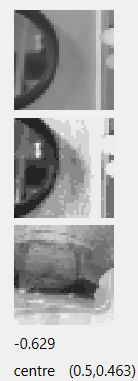
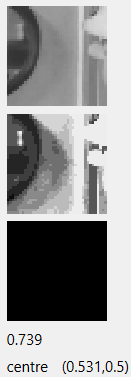
re-run

diff --git a/win006.cpp b/win006.cpp
@@ -297,21 +297,6 @@ Win006::Win006(const std::string& configA,
 Win006::~Win006()
 {
 	terminate = true;
-	// dump slice representations
- 	if (_model.size())
-	{
-		try
-		{
-			std::ofstream out(_model + ".rep", std::ios::binary);
-			sliceRepresentationUMapsPersistent(*_slicesRepresentation, out); 
-			out.close();
-			LOG "actor\tdump\tfile name:" << _model + ".rep" UNLOG
-		}
-		catch (const std::exception&)
-		{
-			LOG "actor\terror: failed to write slice-representations file" <<_model + ".rep" UNLOG
-		}			
-	}
 	if (_system)
 	{
 		_active->terminate = true;
@@ -354,6 +339,18 @@ Win006::~Win006()
 			ppio.filename = activeA.name+".ac";
 			activeA.logging = true;
 			activeA.dump(ppio);		
+			// dump slice representations
+			try
+			{
+				std::ofstream out(_model + ".rep", std::ios::binary);
+				sliceRepresentationUMapsPersistent(*_slicesRepresentation, out); 
+				out.close();
+				LOG "actor\tdump\tfile name:" << _model + ".rep" UNLOG
+			}
+			catch (const std::exception&)
+			{
+				LOG "actor\terror: failed to write slice-representations file" <<_model + ".rep" UNLOG
+			}	
 		}			
 	}
     delete _ui;
@@ -449,7 +446,7 @@ void Win006::act()
 					likelihoods.push_back(likelihood);
 					if (_actLoggingSlice)
 					{
-						LOG "actor\tslice: " << std::hex << slice << "\tsize: "  << std::dec << sliceSize << "\tparent: " << parentSize << "\tlikelihood: " << std::fixed << std::setprecision(6) << likelihood << std::defaultfloat /* << "\trep size: " << (reps.count(slice) ? reps[slice].count : 0) */ UNLOG
+						LOG "actor\tslice: " << std::hex << slice << "\tsize: "  << std::dec << sliceSize << "\tparent: " << parentSize << "\tlikelihood: " << std::fixed << std::setprecision(6) << likelihood << std::defaultfloat << "\trep size: " << (reps.count(slice) ? reps[slice].count : 0) UNLOG
 					}
 				}
 				if (!_induceNot)

diff --git a/README.md b/README.md
@@ -501,7 +501,7 @@ This reminds us of the vastness of the *volume* of the *substrate* compared to t
 
 This table summarises the results from the `actor001` *models* -
 
-TODO
+TODO models 2 and 8
 
 model|scales|frame position|events|fuds|fuds/sz/thrshld|median diagonal|max diagonal|lagging fuds
 ---|---|---|---|---|---|---|---|---
@@ -509,8 +509,8 @@ model001|1.0, 0.5, 0.25, 0.125|centred|720,000|2781|0.7725|31.7208|41.5523|7
 model005|1.0|1 centred|180,000|684|0.761591|33.4245|41.2544|0
 model006|0.5|1 centred|180,000|697|0.775099|31.6855|41.1768|0
 model007|0.25|1 centred|180,000|698|0.776233|31.458|40.8568|0
-model003|0.5|1 centred, 4 offset|720,000|2735|0.759722|31.4093|41.8025|599
-model004|0.5|1 centred, 4 offset, randomised|720,000|2955|0.820833|25.5135|40.332|221
+model003|0.5|1 centred, 4 offset|720,000|2726|0.757222|31.4333|42.0312|1114
+model004|0.5|1 centred, 4 offset, randomised|720,000|2899|0.805278|25.5097|40.5724|485
 model002|0.25|1 centred, 4 offset|720,000|2799|0.7775|31.2526|41.5411|489
 model008|0.25|1 centred, 4 offset, randomised|720,000|2705|0.751389|25.904|39.3218|387
 
@@ -535,7 +535,7 @@ cd /d C:\caiks\WBOT02_ws
 "C:\caiks\build-WBOT02-Desktop_Qt_6_2_4_MSVC2019_64bit-Release\WBOT02.exe" actor001 model005.json > model005.log
 
 ```
-The remaining *models* have five frames, each with the same scale - a central frame and four frames at the points of the compass. In *models* 3 and 4 we compare the effect of fixed centres to randomised ones for half scale frames. In *models* 2 and 8 we do the same for quarter scale frames. We can see that for half scale  randomisation appears to increase the *model* a little (0.82 versus 0.76), but for quarter scale randomisation appears to decrease the *model* a little (0.75 versus 0.78). There does not seem to be any very large quantitative differences.
+The remaining *models* have five frames, each with the same scale - a central frame and four frames at the points of the compass. In *models* 3 and 4 we compare the effect of fixed centres to randomised ones for half scale frames. In *models* 2 and 8 we do the same for quarter scale frames. We can see that for half scale  randomisation appears to increase the *model* a little (0.81 versus 0.76), but for quarter scale randomisation appears to decrease the *model* a little (0.75 versus 0.78). There does not seem to be any very large quantitative differences.
 
 Let us consider if there are qualitative differences between fixed and randomised for the half scale by comparing *models* 3 and 4. This is the configuration of `model003.json` -
 ```
@@ -570,17 +570,17 @@ At the centre we see an image very similar to that of the half scale frame from 
 
 ![actor001_008](images/actor001_008.png)
 
-If we display *model* 3 and *model* 1 side by side, we have -
+If we display *model* 3 and *model* 1 side by side, we can easily see this -
 
 ![actor001_008](images/actor001_008.png) ![actor001_010](images/actor001_010.png) 
 
-The *likelihood* is smaller (0.511 versus 0.694), but still fairly high. The *slice* representations themselves are very similar. The differing *likelihoods* is possibly because the frame at (0.5,0.5) only sees one fifth of the *events* in *model* 3, instead of one quarter of the *events* in *model* 1, and so the *slice* is probably has fewer ancestors on its *decomposition* path. 
+The *likelihoods* are similar (0.752 versus 0.591). The *slice* representations are similar too. 
 
-If we move upwards by the same short distance as before to (0.5,0.463) we obtain the following -
+If we move rightwards by the same short distance as before to (0.531,0.5) we obtain the following -
 
 ![actor001_009](images/actor001_009.png) ![actor001_011](images/actor001_011.png) 
 
-Again, the *likelihood* is far off the *diagonal* at only -0.629, although this is slightly higher than before at -0.666. The *slice* representations, however, are quite different. This is because both *slices* are small samples, and so the representations are likely to deviate more from each other than with the *on-diagonal* case.
+Here *model* 3 has a high *likelihood* at 0.739 in contrast to *model* 1, which was far off the *diagonal* at only -0.662. The *slice* representations, however, are both quite different from the current record. In the case of *model* 3 this is because we have moved away from the fixed point and the most similar *slice* happens to resemble only only a small part of the image, probably because it is not very far down the *decompostion* path. *Model* 1, on the other hand, is a small *slice* and so the representation are is likely to deviate a long way from the record in any case.
 
 The configuration of *model* 4 is very similar to *model* 3, but additionally has the random parameters; `model004.json` -
 ```
@@ -617,35 +617,27 @@ Let us compare all three *models* at (0.5,0.5) -
 
 ![actor001_012](images/actor001_012.png) ![actor001_008](images/actor001_008.png) ![actor001_010](images/actor001_010.png) 
 
-The randomised case has higher *likelihood* at 0.607 when compared to the fixed case, but the *slice* representation is much blurrier - it hardly looks like the *event* - and so is probably not nearly so far down the *decomposition* path. This is as we would expect since there will be few, if any, identical *events* in the randomised case. 
+The randomised case has a very low *likelihood* at -0.697 when compared to the fixed cases. This is as we would expect since there will be few, if any, identical *events* in the randomised case. 
 
-Compare the randomised case to the fixed for the translated centre (0.5,0.463) -
+Compare the randomised case to the fixed for the translated centre (0.531,0.5) -
 
 ![actor001_013](images/actor001_013.png) ![actor001_009](images/actor001_009.png) ![actor001_011](images/actor001_011.png) 
 
-The randomised *likelihood* is higher at -0.238, but it is still very low. This is as we would expect - there will be more *events* from that location or for similar locations. The representation is still blurry - the *slice* will have a very short path.
+The randomised *likelihood* is higher at -0.359, but it is still very low. This is also as we would expect - there will generally be more *events* from that location or for similar locations in the randomised case. 
 
 Neither the randomised nor the fixed methods perform very well where the frame is rarely seen. Let us see if frequently seen objects, such as Sam's face, improve things.
 
-If we pause the first episode at 4 minutes 20 seconds, long after the opening sequence, *model* 4 has a high *likelihood*, but blurry representation, at (0.5,0.5) -
+If we pause the first episode at 4 minutes 20 seconds, long after the opening sequence, *model* 4 has a high *likelihood*, but a blurry representation, at (0.5,0.5) -
 
 ![actor001_014](images/actor001_014.png) 
 
-If we navigate to (0.569,0.3) we also have a high *likelihood*, but a very clear representation -
+If we navigate around Sam's face with *model* 4 we find that all of the representations consist of blurry areas of light and dark when they have high *likelihoods*. None of the representations look very much like his face. This suggests that randomised *modelling* would need much longer runs to attain, say, two darker areas for the pupils of the eyes. A limited active *history* is likely to preclude ever obtaining even a basic *model* of faces.
 
-![actor001_015](images/actor001_015.png) 
-
-Browsing around nearby shows some other hotspots; some are with clear representations, but most have blurry representations. If we repeat for *model* 3 we have a high *likelihood* hotspot, but blurry representation, at (0.5,0.5) -
+If we repeat for *model* 3 we have a high *likelihood* hotspot at (0.5,0.5) -
 
 ![actor001_016](images/actor001_016.png) 
 
-At (0.569,0.3), away from the fixed point of *model* 3, there is less of a hotspot -
-
-![actor001_017](images/actor001_017.png) 
-
-but at (0.537,0.3) there is a hotspot with a clear image -
-
-![actor001_018](images/actor001_018.png) 
+The representation is possibly less blurry than for *model* 4, but it seems to be classified along with other images containing the buttons on Sam's coat, rather than on Sam's face.
 
 We can perhaps tentatively conclude that frequently seen frames are more likely to have high *likelihood* hotspots nearby, in varying degrees of *decomposition*, than frames containing the intervals between objects (such as the edge of the mirror above), or with jumbles of rarely seen objects. To find out, `actor002` will actively scan for hotspots and will show the siblings and ancestor *slice* representations. 
 
